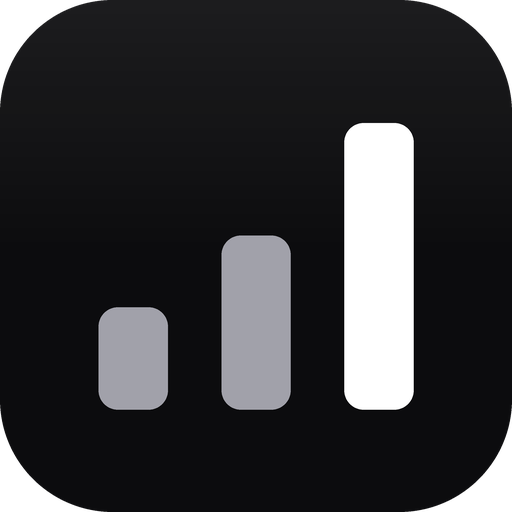
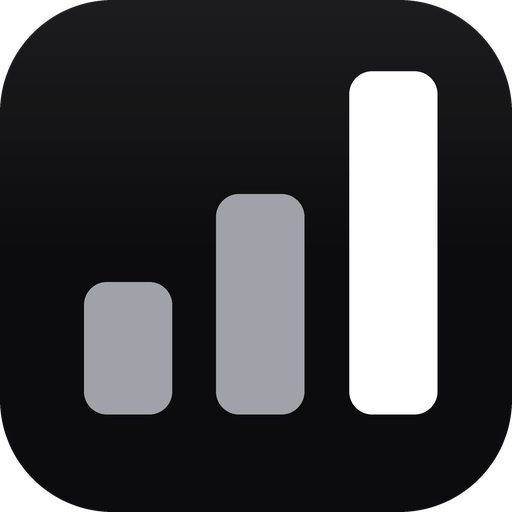
Painel 1.29.2 · ícone do Gestão com as barras do mesmo tamanho das do Financial
Claude-Session: https://claude.ai/code/session_013dYnp6Q4FbKKHgHExvse5D

Changed region(s): [[0.6562, 0.125, 0.875, 0.8125], [0.4062, 0.375, 0.5938, 0.8125], [0.1562, 0.5312, 0.3438, 0.8125]]

diff --git a/gestao.html b/gestao.html
@@ -5,8 +5,8 @@
 <meta name="viewport" content="width=device-width, initial-scale=1, viewport-fit=cover">
 <meta name="robots" content="noindex, nofollow">
 <title>EasyAPP Gestão</title>
-<link rel="icon" href="img/gestao-192.png">
-<link rel="apple-touch-icon" href="img/gestao-180.png">
+<link rel="icon" href="img/gestao-192.png?v=2">
+<link rel="apple-touch-icon" href="img/gestao-180.png?v=2">
 <meta name="theme-color" content="#0a0a0b">
 <link rel="manifest" href="gestao.webmanifest">
 <meta name="apple-mobile-web-app-capable" content="yes">
@@ -204,7 +204,7 @@
 </style>
 </head>
 <body>
-<div id="abertura"><img src="img/gestao-192.png" alt=""><b>EasyAPP <em>Gestão</em></b><small>abrindo o painel…</small></div>
+<div id="abertura"><img src="img/gestao-192.png?v=2" alt=""><b>EasyAPP <em>Gestão</em></b><small>abrindo o painel…</small></div>
 <div class="cx" id="cx"></div>
 <script src="gestao-testes.js?v=3.2.1"></script>
 <script>
@@ -218,7 +218,7 @@ var DADOS = null, FILTRO = 'todos', BUSCA = '';
 var EDITANDO = null;   // voucher aberto no formulário para editar (null = criar novo)
 var LOG = null, LOG_FILTRO = 'todos';   // log da pessoa aberta na janela
 // versão deste painel: suba a cada publicação (aparece no rodapé e no login)
-var VERSAO_PAINEL = '1.29.1 · 04/11/2026';
+var VERSAO_PAINEL = '1.29.2 · 04/11/2026';
 var ABERTO_EM = Date.now();
 /* O navegador guarda a página (o GitHub Pages manda guardar 10 min, e o painel
    instalado na tela de início segura mais). Ao abrir, confere a versão da
